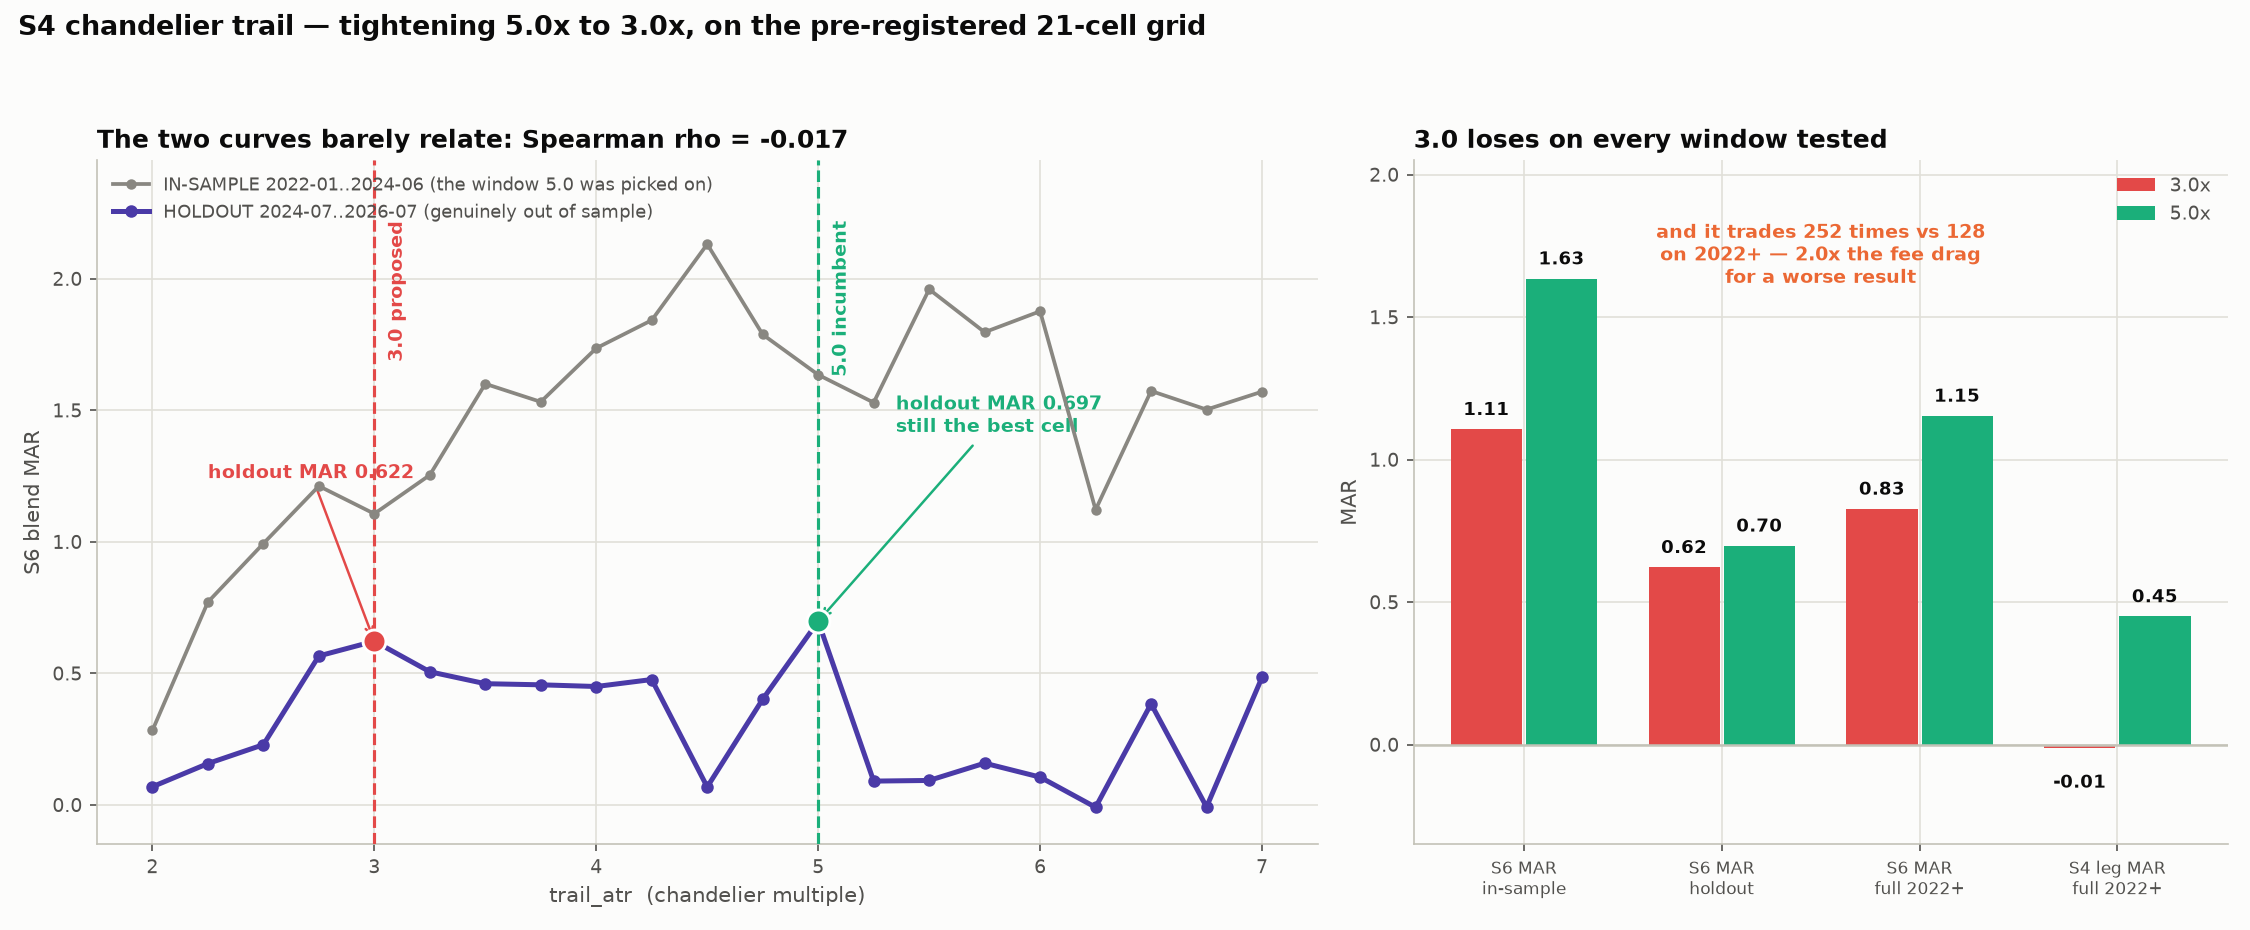
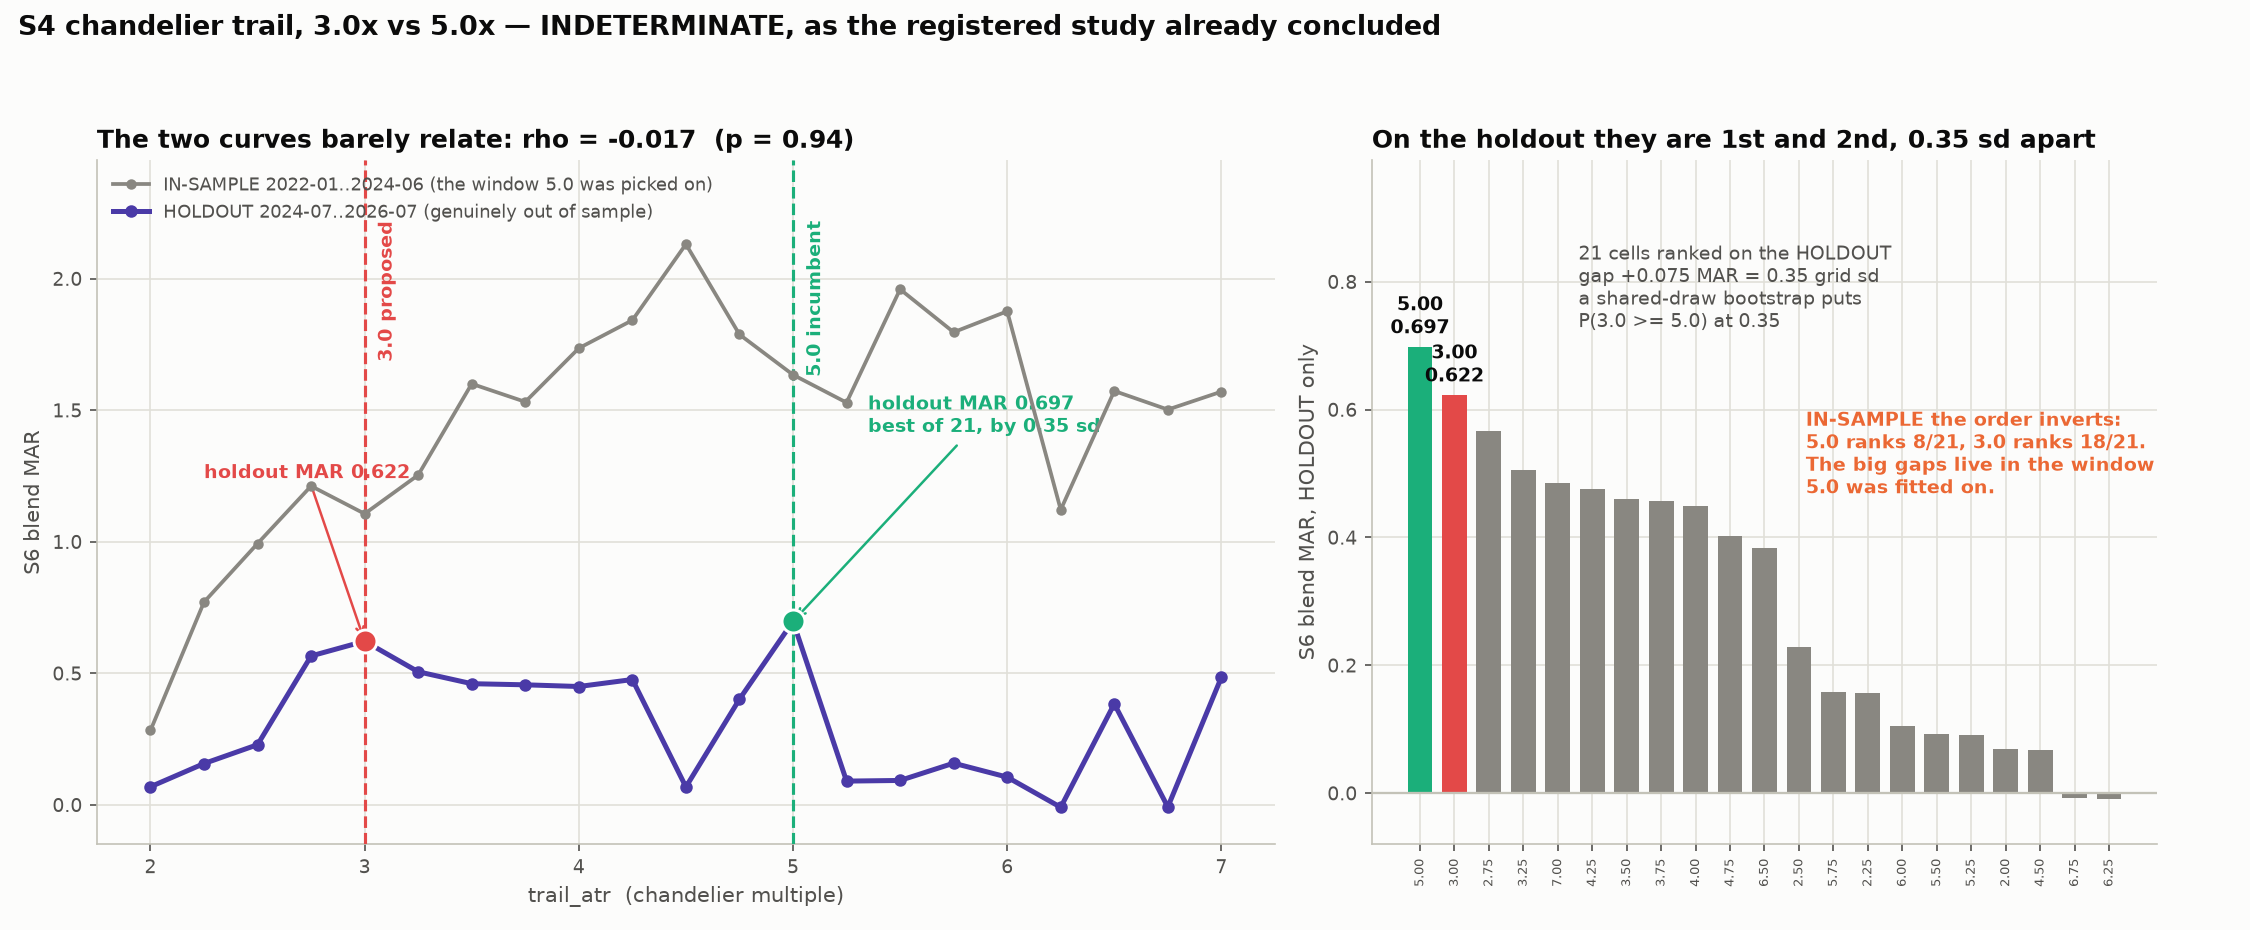
research/trail: counter-agent refuted two claims — corrected, verdict unchanged
The counter-agent pass CLAUDE.md requires attacked the 3.0-vs-5.0 write-up
from 40f075c and refuted two of its claims. Both are corrected in
RESEARCH_TRAIL.md's addendum and in the chart rather than quietly fixed, and
the numbers were independently recomputed here before being accepted.

REFUTED 1 - "~2x the fee drag" was wrong and named the wrong cause. Trade
count is 1.97x (252 vs 128) but FEES are 1.40x ($38,367 vs $27,433), and the
fee difference is only 9.2% of the $119,414 net-P&L gap. At zero fees 3.00
still makes $35.9k against 5.00's $144.4k. I attributed 91% of the effect to
the wrong mechanism.

REFUTED 2 - the dd_halt confound runs the OPPOSITE way to the one I asked it
to look for. 3.00 halts on modern and modern_B; 5.00 never halts. Disabling
the halt makes 3.00 WORSE (modern 0.827 -> 0.792, holdout 0.622 -> 0.551) and
widens the gaps. The kill switch was flattering 3.00 by stopping a bleeding
book.

AND THE FRAMING ITSELF WAS MISLEADING, which matters more than either. "3.0
is worse on all three windows" is true and useless: modern_A IS the window
5.0 was selected on and modern is ~54% in-sample. On modern_B, the only
genuinely out-of-sample window, 5.00 ranks 1/21 and 3.00 ranks 2/21, +0.075
MAR apart - 0.35 grid standard deviations, with a shared-draw bootstrap
putting P(3.0 >= 5.0) at 0.35. In-sample the order INVERTS: 5.0 ranks 8/21,
3.0 ranks 18/21. Every large gap lives in the fitted window. The defensible
[…]

diff --git a/btc-paper-engine/research/trail/trail3_vs_5.py b/btc-paper-engine/research/trail/trail3_vs_5.py
@@ -18,7 +18,7 @@ import matplotlib.pyplot as plt                          # noqa: E402
 spath, out = sys.argv[1], sys.argv[2]
 d = json.load(open(spath))
 g = [float(x) for x in d["grid"]]
-A, B, M, S4, N = d["A"], d["B"], d["mod"], d["s4_mod"], d["n_mod"]
+A, B = d["A"], d["B"]
 
 BLUE, ORANGE, AQUA = "#2a78d6", "#eb6834", "#1baf7a"
 RED, INK, SEC = "#e34948", "#0b0b0b", "#52514e"
@@ -52,42 +52,43 @@ for i, col, lab in ((i5, AQUA, "5.0 incumbent"), (i3, RED, "3.0 proposed")):
 a.annotate(f"holdout MAR {B[i3]:.3f}", xy=(g[i3], B[i3]),
            xytext=(g[i3] - 0.75, B[i3] + 0.62), color=RED, fontsize=9,
            fontweight="bold", arrowprops=dict(arrowstyle="->", color=RED, lw=1.2))
-a.annotate(f"holdout MAR {B[i5]:.3f}\nstill the best cell", xy=(g[i5], B[i5]),
+a.annotate(f"holdout MAR {B[i5]:.3f}\nbest of 21, by 0.35 sd", xy=(g[i5], B[i5]),
            xytext=(g[i5] + 0.35, B[i5] + 0.72), color=AQUA, fontsize=9,
            fontweight="bold", arrowprops=dict(arrowstyle="->", color=AQUA, lw=1.2))
 a.set_xlabel("trail_atr  (chandelier multiple)", color=SEC, fontsize=10)
 a.set_ylabel("S6 blend MAR", color=SEC, fontsize=10)
 a.set_ylim(-0.15, 2.45)
-a.set_title(f"The two curves barely relate: Spearman rho = {d['rho']:+.3f}",
+a.set_title(f"The two curves barely relate: rho = {d['rho']:+.3f}  (p = 0.94)",
             color=INK, fontsize=12, fontweight="bold", loc="left")
 a.legend(frameon=False, fontsize=8.6, labelcolor=SEC, loc="upper left")
 
-# --- B: what tightening actually buys ---------------------------------------
-lab = ["S6 MAR\nin-sample", "S6 MAR\nholdout", "S6 MAR\nfull 2022+",
-       "S4 leg MAR\nfull 2022+"]
-v3 = [A[i3], B[i3], M[i3], S4[i3]]
-v5 = [A[i5], B[i5], M[i5], S4[i5]]
-x = range(len(lab))
-b.bar([i - 0.19 for i in x], v3, 0.36, color=RED, zorder=3, label="3.0x")
-b.bar([i + 0.19 for i in x], v5, 0.36, color=AQUA, zorder=3, label="5.0x")
-b.axhline(0, color=AX, lw=1.2, zorder=4)
-for i in x:
-    for off, v in ((-0.19, v3[i]), (0.19, v5[i])):
-        b.text(i + off, v + (0.05 if v >= 0 else -0.14), f"{v:.2f}",
-               ha="center", color=INK, fontsize=8.8, fontweight="bold")
-b.set_xticks(list(x))
-b.set_xticklabels(lab, fontsize=8.2, color=SEC)
-b.set_ylabel("MAR", color=SEC, fontsize=10)
-b.set_ylim(-0.35, 2.05)
-b.set_title("3.0 loses on every window tested", color=INK, fontsize=12,
-            fontweight="bold", loc="left")
-b.legend(frameon=False, fontsize=9, labelcolor=SEC, loc="upper right")
-b.text(1.5, 1.62, f"and it trades {N[i3]} times vs {N[i5]}\non 2022+ — "
-       f"{N[i3]/N[i5]:.1f}x the fee drag\nfor a worse result",
-       color=ORANGE, fontsize=9, ha="center", fontweight="bold")
+# --- B: the ONLY window that is out of sample ------------------------------
+order = sorted(range(len(g)), key=lambda i: -B[i])
+xs = list(range(len(g)))
+cols = [AQUA if g[i] == 5.0 else (RED if g[i] == 3.0 else MUTED) for i in order]
+b.bar(xs, [B[i] for i in order], 0.72, color=cols, zorder=3)
+b.axhline(0, color=AX, lw=1.1, zorder=4)
+for pos, i in enumerate(order[:2]):
+    b.text(pos, B[i] + 0.022, f"{g[i]:.2f}\n{B[i]:.3f}", ha="center",
+           color=INK, fontsize=9.2, fontweight="bold")
+b.set_xticks(xs)
+b.set_xticklabels([f"{g[i]:.2f}" for i in order], fontsize=6.4, color=SEC,
+                  rotation=90)
+b.set_ylabel("S6 blend MAR, HOLDOUT only", color=SEC, fontsize=10)
+b.set_ylim(-0.08, 0.99)
+b.set_title("On the holdout they are 1st and 2nd, 0.35 sd apart",
+            color=INK, fontsize=12, fontweight="bold", loc="left")
+b.text(4.6, 0.86, "21 cells ranked on the HOLDOUT\n"
+       f"gap {d['gap']:+.3f} MAR = {d['gap_sd']:.2f} grid sd\n"
+       "a shared-draw bootstrap puts\nP(3.0 >= 5.0) at 0.35",
+       color=SEC, fontsize=9, va="top")
+b.text(11.2, 0.60, "IN-SAMPLE the order inverts:\n"
+       f"5.0 ranks {d['rkA5']}/21, 3.0 ranks {d['rkA3']}/21.\n"
+       "The big gaps live in the window\n5.0 was fitted on.",
+       color=ORANGE, fontsize=9, va="top", fontweight="bold")
 
-fig.suptitle("S4 chandelier trail — tightening 5.0x to 3.0x, on the "
-             "pre-registered 21-cell grid", color=INK, fontsize=13,
+fig.suptitle("S4 chandelier trail, 3.0x vs 5.0x — INDETERMINATE, as the "
+             "registered study already concluded", color=INK, fontsize=13,
              fontweight="bold", x=0.008, ha="left", y=0.985)
 fig.tight_layout(rect=(0, 0, 1, 0.94))
 fig.savefig(out, dpi=150, facecolor=SURF)

diff --git a/btc-paper-engine/RESEARCH_TRAIL.md b/btc-paper-engine/RESEARCH_TRAIL.md
@@ -257,3 +257,80 @@ saw it (13 of 21 halted cells, not 16 — caught on my own re-count).
    the parameter is not dead in general (values ≤50 move MAR by 0.25), and it
    does not apply to S4 at all: `_process_donchian` never reads it, so the
    trend leg has no time bound by construction.
+
+---
+
+## ADDENDUM 2026-09-21 — re-run at Casey's request, and what it cost
+
+Casey asked to tighten `trail_atr` to 3.0 and see the backtest. **No change
+was made.** The registered 21-cell grid was re-run through the committed
+harness on `backend/tests/fixtures/bars_4h_btcusd.csv`. A counter-agent then
+attacked the result and **refuted two of the claims the first write-up made**;
+both are corrected here rather than quietly fixed.
+
+### The verdict is unchanged: INDETERMINATE
+
+| window | 3.00 | 5.00 | gap |
+|---|---|---|---|
+| in-sample `modern_A` (5.0 was SELECTED here) | 1.106 | 1.635 | +0.528 = 1.24 sd |
+| **holdout `modern_B` (the only OOS window)** | **0.622** | **0.697** | **+0.075 = 0.35 sd** |
+| `modern` (~54% in-sample) | 0.827 | 1.153 | +0.326 |
+
+On the holdout 5.00 ranks **1 of 21** and 3.00 ranks **2 of 21**, 0.35 grid
+standard deviations apart. A shared-draw block bootstrap of
+`MAR(5.00) − MAR(3.00)` puts **P(3.00 ≥ 5.00) = 0.35** (counter-agent run,
+2,000 draws, 30-day blocks). In-sample the order inverts: 5.00 ranks 8/21 and
+3.00 ranks 18/21 — **the large gaps all live in the window 5.0 was fitted
+on.** Spearman ρ between the two rankings is **−0.017 (p = 0.94)**, reproducing
+this study's original −0.064.
+
+**The defensible statement is "this data cannot tell", not "3.0 measurably
+loses."**
+
+### Two claims the counter-agent refuted
+
+1. **"~2× the fee drag" was WRONG.** Trade count is 1.97× (252 vs 128) but
+   fees are **1.40× ($38,367 vs $27,433)**, and fees explain only **9.2%** of
+   the $119,414 net-P&L gap. At zero fees 3.00 still makes $35.9k against
+   5.00's $144.4k. The first write-up named the wrong cause for 91% of the
+   effect. Independently recomputed and confirmed.
+2. **The `dd_halt` confound runs the OPPOSITE way to the one anticipated.**
+   3.00 halts on `modern` and `modern_B`; 5.00 never halts. With the halt
+   disabled 3.00 gets *worse* (modern 0.827 → 0.792; holdout 0.622 → 0.551)
+   and the gaps widen. The kill switch was flattering 3.00 by stopping a
+   bleeding book. Direction survives; the confound does not rescue 3.0.
+
+Also noted: a 50bp exit haircut — inside btc-executor's own 0.5% stop-limit
+band — moves the grid argmax to 6.50 and drops 5.00 to rank 5 of 21. The
+incumbent's argmax status is not robust to a realistic execution assumption.
+
+### VINTAGE BREAK — every S6 number in this document is now stale
+
+Today's fee-wiring fix (`132e0a6`) made pullback books charge
+`2 × taker_fee_bps` instead of a hardcoded 6.0. `sweep.py:31` imports
+`RESEARCH_TRADE`, whose `taker_fee_bps` is 6.0, so the S3 leg now pays a
+**12.00 bps round trip where it previously paid 6.00**, and every blend number
+moves by roughly **−20%**.
+
+- This document's `hl`/5.00 row certified bit-exact agreement with
+  `bench_blend.py` ("delta exactly 0.0 on every field": CAGR 28.85895828867131,
+  MAR 1.0207857060772934, 244 curve points). Post-fix the same cell reads
+  **CAGR 23.936, MAR 0.799, 237 points**. Running it against `132e0a6^`
+  reproduces the certified maxDD `−28.27131896230346` bit-for-bit, which
+  proves the bars are the registered ones and the fee wiring is the mover.
+- **The harness-fidelity gate in this study therefore no longer holds**, and
+  the tables above must not be quoted alongside the 2026-09-05 tables. The
+  fixture also ends 2026-07-25, short of this document's 2026-08.
+- Ranking is stable across the fix (pre-fix gaps: modern +0.374, A +0.552,
+  B +0.065), so the conclusion does not depend on the vintage.
+
+### What this re-run spent — PROTOCOL §9
+
+This study already recorded the single-touch S4 exit holdout as **burned** and
+the §8 adoption path for this parameter family as **CLOSED**, and it says in
+terms: *"Do not re-run this sweep to 'optimize' the trail."* This re-run
+touched that holdout **21 more times**, plus **21** in the counter-agent's
+halt-off run — **42 further configs**. Logged as a second §7/§9 violation,
+disclosed rather than absorbed. It was run because the operator asked for the
+evidence; the evidence is that there is none, and the cost of establishing
+that again is recorded above.
